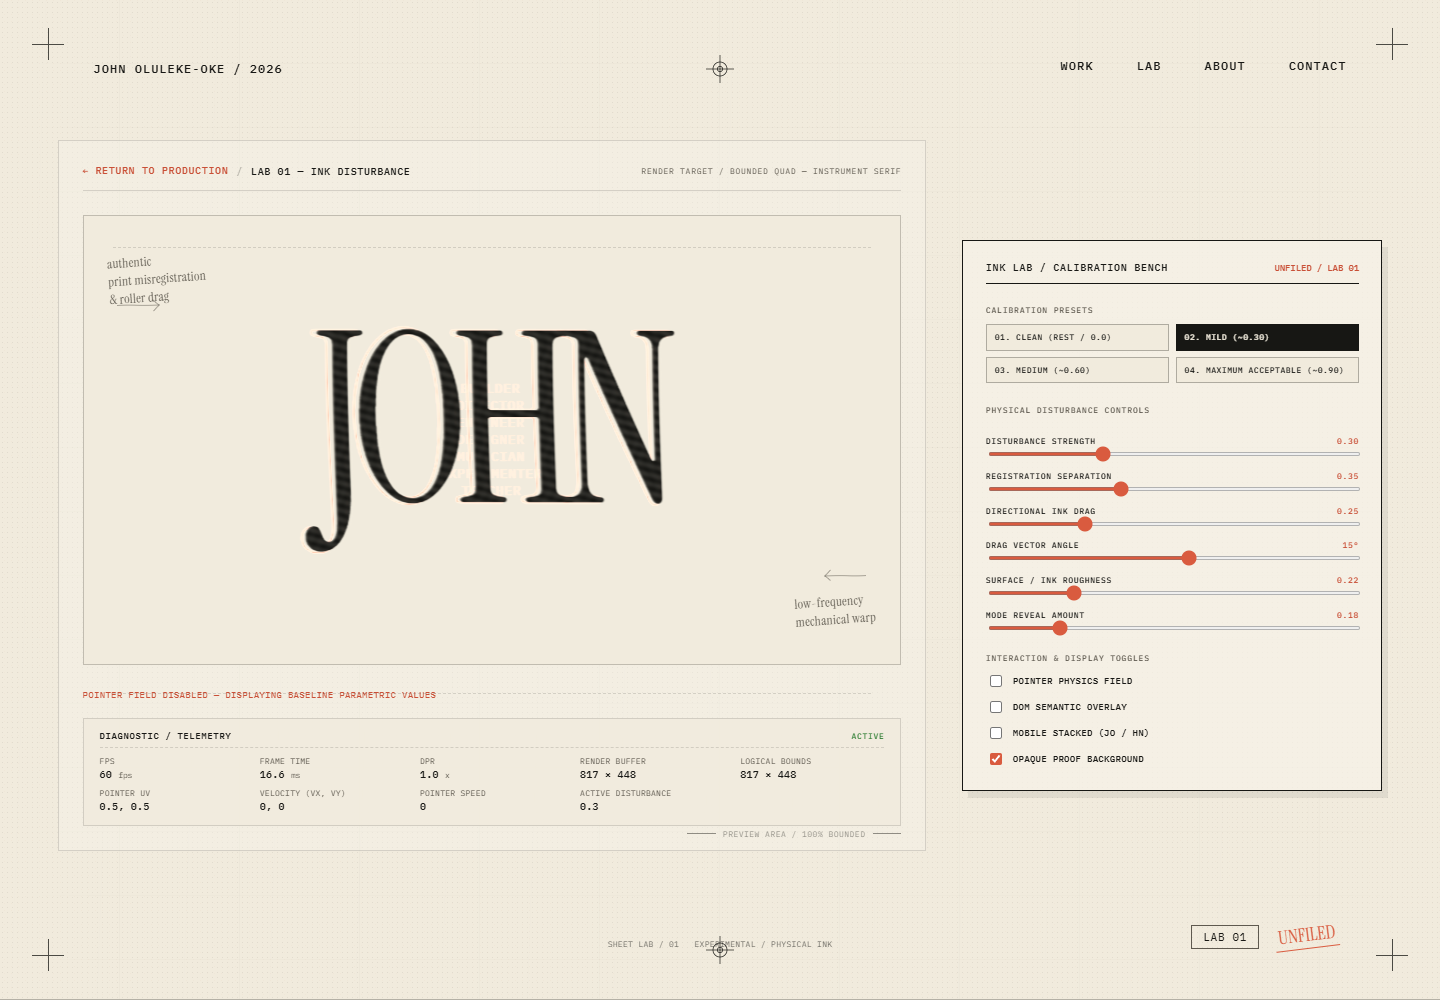
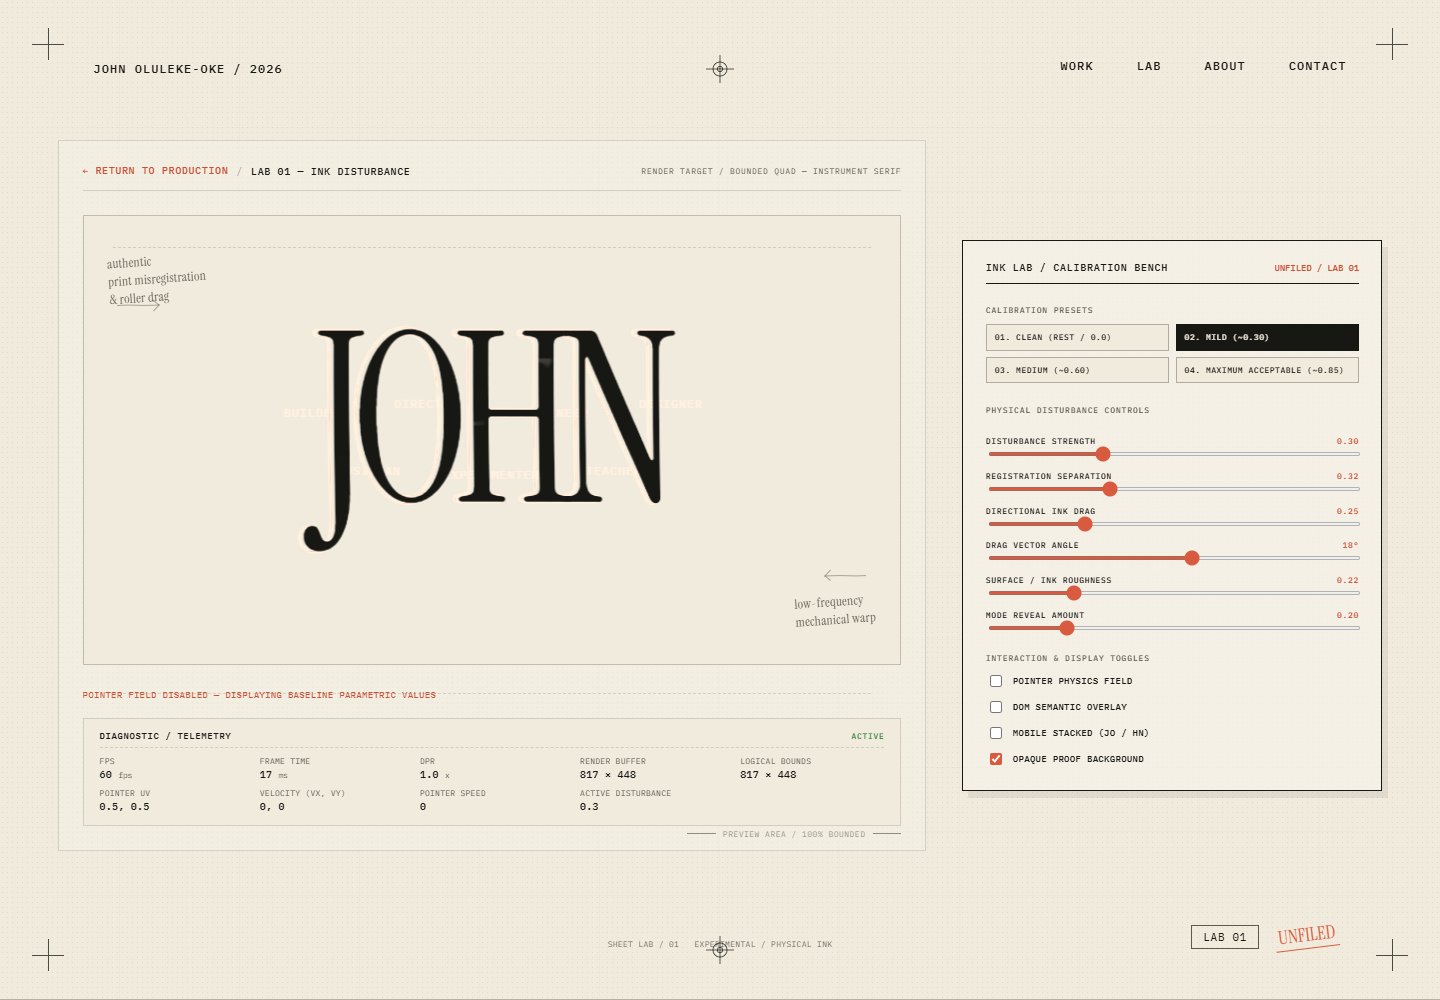
feat(ink-lab): add adjustable disturbance levels to ink distortion
Introduce multi-tier disturbance controls (clean, mild, medium, maximum)
wired through InkLabControls and applied via the inkDistortionShader,
giving the ink simulation a configurable turbulence spectrum.

- Add disturbance level parameter to InkLabControls and thread it through InkCanvas
- Update inkDistortionShader to scale displacement by the selected level
- Refresh milestone-02b capture script and regenerate screenshots to
  reflect the four calibrated disturbance states

diff --git a/Johns Website/src/shaders/inkDistortionShader.ts b/Johns Website/src/shaders/inkDistortionShader.ts
@@ -37,15 +37,49 @@ uniform float u_pointerActive;
 // Render Mode (0 = transparent overlay for DOM, 1 = opaque proof paper)
 uniform int u_renderMode;
 
-// Smooth harmonic mechanical plate distortion (press pressure / roller elasticity)
+// Non-periodic hash and noise helpers (avoids trigonometric precision artifacts)
+float hash11(float p) {
+  p = fract(p * 0.1031);
+  p *= p + 33.33;
+  p *= p + p;
+  return fract(p);
+}
+
+float hash12(vec2 p) {
+  vec3 p3 = fract(vec3(p.xyx) * 0.1031);
+  p3 += dot(p3, p3.yzx + 33.33);
+  return fract((p3.x + p3.y) * p3.z);
+}
+
+// 1D smooth value noise along perpendicular squeegee axis
+float noise1D(float x) {
+  float i = floor(x);
+  float f = fract(x);
+  float u = f * f * (3.0 - 2.0 * f);
+  return mix(hash11(i), hash11(i + 1.0), u);
+}
+
+// 2D smooth value noise for organic mechanical tooth and fiber
+float noise2D(vec2 p) {
+  vec2 i = floor(p);
+  vec2 f = fract(p);
+  vec2 u = f * f * (3.0 - 2.0 * f);
+  float a = hash12(i);
+  float b = hash12(i + vec2(1.0, 0.0));
+  float c = hash12(i + vec2(0.0, 1.0));
+  float d = hash12(i + vec2(1.0, 1.0));
+  return mix(mix(a, b, u.x), mix(c, d, u.x), u.y);
+}
+
+// Smooth low-frequency plate tension displacement (no liquid warping)
 vec2 getPlateDisplacement(vec2 uv, float strength) {
   if (strength <= 0.001) return vec2(0.0);
   
-  float t = u_time * 0.15;
-  float wave1 = sin(uv.y * 4.2 + t) * 0.65 + cos(uv.x * 3.1 - t * 0.8) * 0.35;
-  float wave2 = sin((uv.x * 2.0 + uv.y * 3.5) + t * 0.5) * 0.5 + cos(uv.y * 8.0 - t) * 0.15;
+  float t = u_time * 0.12;
+  float wave1 = sin(uv.y * 3.8 + t) * 0.6 + cos(uv.x * 2.6 - t * 0.7) * 0.4;
+  float wave2 = sin((uv.x * 1.8 + uv.y * 2.8) + t * 0.4) * 0.5;
   
-  return vec2(wave1 * 0.026, wave2 * 0.013) * strength;
+  return vec2(wave1 * 0.016, wave2 * 0.008) * strength;
 }
 
 void main() {
@@ -58,99 +92,150 @@ void main() {
   // 1. Local Pointer Disturbance Field
   vec2 ptrDelta = (v_uv - u_pointer) * vec2(u_aspect, 1.0);
   float ptrDist = length(ptrDelta);
-  float ptrRadius = 0.36;
+  float ptrRadius = 0.35;
   float ptrAngle = atan(ptrDelta.y, ptrDelta.x);
-  float ptrIrregularity = 1.0 + 0.22 * sin(ptrAngle * 3.0 + u_time * 0.5);
+  float ptrIrregularity = 1.0 + 0.18 * sin(ptrAngle * 3.0 + u_time * 0.4);
   float ptrInfluence = smoothstep(ptrRadius * ptrIrregularity, 0.0, ptrDist) * u_pointerActive;
   
   // Pointer directional ink pull
-  vec2 ptrVelocityDrag = -u_velocity * ptrInfluence * (0.015 + u_speed * 0.045);
+  vec2 ptrVelocityDrag = -u_velocity * ptrInfluence * (0.012 + u_speed * 0.038);
   
-  // 2. Low-Frequency Plate Warp
-  float effectiveDisturbance = clamp(u_disturbance + ptrInfluence * 0.28, 0.0, 1.0);
+  // Effective Disturbance
+  float effectiveDisturbance = clamp(u_disturbance + ptrInfluence * 0.25, 0.0, 1.0);
+  
+  // 2. Low-Frequency Mechanical Plate Warp
   vec2 plateWarp = getPlateDisplacement(v_uv, effectiveDisturbance);
-  vec2 baseUV = v_uv + plateWarp + ptrVelocityDrag;
+  vec2 baseUV = clamp(v_uv + plateWarp + ptrVelocityDrag, 0.0, 1.0);
   
-  // 3. Directional Ink Drag along Print/Roller Axis
+  // 3. Directional Axis Setup
   float angleRad = u_dragAngle * 3.14159265359 / 180.0;
   vec2 dragDir = vec2(cos(angleRad), sin(angleRad));
   vec2 perpDir = vec2(-dragDir.y, dragDir.x);
   
-  float dragLength = (u_drag * effectiveDisturbance * 0.055) + (ptrInfluence * (0.012 + u_speed * 0.048));
+  // Coordinate along perpendicular axis for roller non-uniformity
+  float perpCoord = dot(v_uv * vec2(u_aspect, 1.0), perpDir);
   
-  // Micro-striations along the physical squeegee/roller path (only when dragging/disturbed)
-  float striationActivity = clamp((u_drag * 0.7 + 0.3) * effectiveDisturbance + ptrInfluence * u_speed, 0.0, 1.0);
-  float rawStriation = sin(dot(v_uv * vec2(u_aspect, 1.0), perpDir) * 320.0) * 0.16 + 0.84;
-  float striation = mix(1.0, rawStriation, striationActivity);
+  // Multi-scale roller noise (breaks periodic banding completely)
+  float rollerNoiseCoarse = noise1D(perpCoord * 32.0);
+  float rollerNoiseMed = noise1D(perpCoord * 85.0 + 1.7);
+  float rollerNoiseFine = noise1D(perpCoord * 190.0 + 3.4);
+  float localRollerVariation = rollerNoiseCoarse * 0.5 + rollerNoiseMed * 0.35 + rollerNoiseFine * 0.15;
   
-  float accumulatedInk = 0.0;
-  float totalWeight = 0.0;
-  const int SAMPLES = 14;
+  // 4. Primary Black Impression Core & Edge-Biased Roughness
+  float rawCoreSample = texture(u_tex, baseUV).r;
   
-  for (int i = 0; i < SAMPLES; i++) {
-    float frac = float(i) / float(SAMPLES - 1);
-    float weight = exp(-frac * 2.8);
-    vec2 sampleUV = baseUV - dragDir * (frac * dragLength);
-    sampleUV = clamp(sampleUV, 0.0, 1.0);
+  // Detect glyph contour boundary (peaks at ~0.5, 0 deep inside or far outside)
+  float edgeProximity = smoothstep(0.04, 0.32, rawCoreSample) * smoothstep(0.96, 0.68, rawCoreSample);
+  
+  // Edge-biased paper tooth & fiber erosion
+  float edgeFiberNoise = noise2D(v_uv * vec2(u_aspect * 160.0, 160.0));
+  float boundaryErosion = (edgeFiberNoise - 0.45) * u_roughness * effectiveDisturbance * 0.48;
+  
+  // Dark pooling / ink squeeze at contour (physical ink squashed to the edges of the plate)
+  float inkPooling = edgeProximity * 0.12 * u_roughness;
+  
+  // Preserved Core: Inside remains solid opaque black (~70% intact mass), only edges erode
+  float intactCore = clamp(rawCoreSample - edgeProximity * boundaryErosion + inkPooling, 0.0, 1.0);
+  
+  // Small localized mechanical voids (rough paper tooth pulling away tiny patches under high disturbance)
+  float voidNoise = noise2D(v_uv * vec2(u_aspect * 28.0, 28.0));
+  float voidThreshold = 1.0 - 0.22 * effectiveDisturbance;
+  float microVoid = smoothstep(voidThreshold, voidThreshold + 0.08, voidNoise) * u_roughness * 0.45;
+  intactCore = clamp(intactCore - microVoid * rawCoreSample, 0.0, 1.0);
+  
+  // 5. Directional but Locally Inconsistent Drag (Pulled-away material ~20%)
+  // Drag length varies across stems and serifs based on local roller variation
+  float localDragFactor = mix(0.35, 1.25, localRollerVariation);
+  float maxDragDist = (u_drag * effectiveDisturbance * 0.062 * localDragFactor) + (ptrInfluence * (0.01 + u_speed * 0.042));
+  
+  float trailAccum = 0.0;
+  float trailWeight = 0.0;
+  const int SAMPLES = 12;
+  
+  // Sample along drag vector with non-periodic jitter to eliminate step lines
+  for (int i = 1; i <= SAMPLES; i++) {
+    float frac = float(i) / float(SAMPLES);
+    float jitter = (hash11(float(i) * 23.7 + perpCoord * 43.0) - 0.5) * 0.07;
+    float t = clamp(frac + jitter, 0.0, 1.0);
     
-    float sampleDensity = texture(u_tex, sampleUV).r;
-    accumulatedInk += sampleDensity * weight;
-    totalWeight += weight;
+    // Natural exponential decay of dragged ink
+    float w = exp(-t * 3.2);
+    vec2 sampleUV = clamp(baseUV - dragDir * (t * maxDragDist), 0.0, 1.0);
+    float s = texture(u_tex, sampleUV).r;
+    
+    // Fine natural micro-fiber variation in dragged trail
+    float fiberGrain = mix(0.72, 1.0, noise1D(dot(sampleUV * vec2(u_aspect, 1.0), perpDir) * 140.0));
+    trailAccum += s * w * fiberGrain;
+    trailWeight += w;
   }
   
-  float draggedInkDensity = (accumulatedInk / totalWeight) * striation;
+  float trailDensity = (trailAccum / max(0.001, trailWeight));
+  // Smeared material pulled off glyphs onto paper (subordinate to core)
+  float draggedMaterial = trailDensity * (0.32 + 0.42 * effectiveDisturbance);
   
-  // 4. Paper Grain & Surface Roughness
-  float grainCoord = v_uv.x * 260.0 * u_aspect + sin(v_uv.y * 60.0) * 2.5;
-  float paperTooth = sin(grainCoord) * 0.5 + 0.5;
-  float fiberModulation = mix(1.0, 0.82 + 0.18 * paperTooth, u_roughness * effectiveDisturbance);
+  // Final Primary Ink: Core remains prominent, trails extend outward
+  float finalPrimaryInk = max(intactCore, draggedMaterial);
   
-  // Edge ink starvation on dragged tails
-  float inkStarvation = mix(1.0, smoothstep(0.04, 0.50, draggedInkDensity), u_roughness * effectiveDisturbance * 0.6);
-  float finalPrimaryInk = clamp(draggedInkDensity * fiberModulation * inkStarvation, 0.0, 1.0);
+  // 6. Mechanically Imperfect Proof-Red Registration Layer
+  // Spatial variation across platen width: skew angle and tension drift
+  float regStrength = u_registration * effectiveDisturbance + ptrInfluence * (0.22 + u_speed * 0.32);
   
-  // 5. Proof-Red Plate Registration Separation
-  float regSep = u_registration * effectiveDisturbance + ptrInfluence * (0.25 + u_speed * 0.35);
-  vec2 redOffsetVector = dragDir * (0.024 * regSep) + vec2(0.005, -0.002) * regSep + (u_velocity * ptrInfluence * 0.02);
+  vec2 centeredUV = v_uv - vec2(0.5);
+  // Differential plate skew across width & height
+  float plateSkew = (centeredUV.x * 0.45 - centeredUV.y * 0.25) * 0.012 * regStrength;
+  vec2 rotOffset = vec2(-centeredUV.y, centeredUV.x) * plateSkew;
   
-  vec2 redUV = clamp(v_uv + plateWarp * 1.35 + redOffsetVector, 0.0, 1.0);
+  // Platen tension accumulation across print direction
+  float tensionDrift = (v_uv.x * 0.6 + 0.4) * regStrength;
+  vec2 redOffsetVector = dragDir * (0.003 + 0.022 * tensionDrift) + 
+                         vec2(0.005 * (1.0 - v_uv.y * 0.4), -0.003 * v_uv.x) * regStrength + 
+                         rotOffset + (u_velocity * ptrInfluence * 0.018);
+  
+  vec2 redUV = clamp(v_uv + plateWarp * 1.28 + redOffsetVector, 0.0, 1.0);
   float proofRedSample = texture(u_tex, redUV).g;
-  float finalProofRed = clamp(proofRedSample * (0.65 + 0.35 * effectiveDisturbance), 0.0, 1.0);
   
-  // 6. Duplicate Ghost Impression (Mechanical plate bounce / double strike)
-  vec2 ghostOffset = -dragDir * (0.008 * effectiveDisturbance) + vec2(-0.004, 0.002) * effectiveDisturbance;
+  // Proof-red outline also exhibits subtle mechanical ink transfer variation
+  float redTransferNoise = mix(0.82, 1.0, noise1D(perpCoord * 70.0));
+  float finalProofRed = clamp(proofRedSample * (0.65 + 0.35 * effectiveDisturbance) * redTransferNoise, 0.0, 1.0);
+  
+  // 7. Duplicate Ghost Impression (Mechanical plate bounce / double strike)
+  vec2 ghostOffset = -dragDir * (0.007 * effectiveDisturbance) + vec2(-0.003, 0.0015) * effectiveDisturbance;
   vec2 ghostUV = clamp(baseUV + ghostOffset, 0.0, 1.0);
   float ghostInkSample = texture(u_tex, ghostUV).r;
-  float ghostDensity = ghostInkSample * (0.16 * effectiveDisturbance + 0.22 * ptrInfluence);
+  float ghostDensity = ghostInkSample * (0.14 * effectiveDisturbance + 0.20 * ptrInfluence);
   
-  // 7. Hidden Mode Reveal Layer
-  float revealStrength = clamp(u_reveal + ptrInfluence * 0.45, 0.0, 1.0);
-  vec2 modeUV = clamp(v_uv + plateWarp * 0.35, 0.0, 1.0);
+  // 8. Distributed Under-Print Mode Reveal
+  // Under-print text is exposed where primary ink is displaced, thinned, or in mechanical gaps
+  float rawReveal = u_reveal * (0.4 + 0.6 * effectiveDisturbance) + ptrInfluence * 0.35;
+  vec2 modeUV = clamp(v_uv + plateWarp * 0.25, 0.0, 1.0);
   float modeSample = texture(u_tex, modeUV).b;
-  float finalModeReveal = clamp(modeSample * revealStrength * 1.4, 0.0, 1.0);
   
-  // 8. Layer Composition
+  // Reveal appears through gaps (~10% exposure) and trailing smear voids
+  float voidExposure = clamp(1.0 - finalPrimaryInk * 0.88, 0.0, 1.0);
+  float finalModeReveal = clamp(modeSample * rawReveal * (0.55 + 0.45 * voidExposure) * 1.5, 0.0, 1.0);
+  
+  // 9. Layer Composition
   vec4 result = (u_renderMode == 1) ? colorPaper : vec4(0.0);
   
-  // Underlying revealed modes
+  // A. Under-print revealed modes
   if (finalModeReveal > 0.002) {
     vec4 modeColor = vec4(colorModeText.rgb, finalModeReveal);
     result = mix(result, modeColor, modeColor.a);
   }
   
-  // Proof-red registration outline
+  // B. Mechanically imperfect proof-red registration outline
   if (finalProofRed > 0.002) {
-    vec4 redColor = vec4(colorProofRed.rgb, finalProofRed * 0.85);
+    vec4 redColor = vec4(colorProofRed.rgb, finalProofRed * 0.88);
     result = mix(result, redColor, redColor.a);
   }
   
-  // Secondary ghost impression
+  // C. Duplicate ghost strike
   if (ghostDensity > 0.002) {
     vec4 ghostColor = vec4(colorInk.rgb, ghostDensity);
     result = mix(result, ghostColor, ghostColor.a);
   }
   
-  // Primary black ink
+  // D. Primary black impression (solid core + pulled material)
   if (finalPrimaryInk > 0.002) {
     vec4 inkColor = vec4(colorInk.rgb, finalPrimaryInk);
     result = mix(result, inkColor, inkColor.a);

diff --git a/Johns Website/src/components/ink-lab/InkCanvas.tsx b/Johns Website/src/components/ink-lab/InkCanvas.tsx
@@ -38,14 +38,25 @@ interface InkCanvasProps {
   isStackedLayout?: boolean;
 }
 
-const MODES = [
-  "BUILDER",
-  "DIRECTOR",
-  "ENGINEER",
-  "DESIGNER",
-  "MUSICIAN",
-  "EXPERIMENTER",
-  "TEACHER",
+// Distributed under-print layout across the span of JOHN
+const SINGLE_LINE_MODES = [
+  { text: "BUILDER", x: 0.28, y: 0.44 },
+  { text: "DIRECTOR", x: 0.42, y: 0.42 },
+  { text: "ENGINEER", x: 0.58, y: 0.44 },
+  { text: "DESIGNER", x: 0.72, y: 0.42 },
+  { text: "MUSICIAN", x: 0.35, y: 0.57 },
+  { text: "EXPERIMENTER", x: 0.50, y: 0.58 },
+  { text: "TEACHER", x: 0.65, y: 0.57 },
+];
+
+const STACKED_MODES = [
+  { text: "BUILDER", x: 0.34, y: 0.26 },
+  { text: "DIRECTOR", x: 0.48, y: 0.23 },
+  { text: "MUSICIAN", x: 0.48, y: 0.32 },
+  { text: "ENGINEER", x: 0.54, y: 0.66 },
+  { text: "DESIGNER", x: 0.54, y: 0.74 },
+  { text: "EXPERIMENTER", x: 0.68, y: 0.66 },
+  { text: "TEACHER", x: 0.68, y: 0.74 },
 ];
 
 function createShader(gl: WebGL2RenderingContext, type: number, source: string): WebGLShader | null {
@@ -113,7 +124,7 @@ export function InkCanvas({
         : Math.min(width * 0.29, height * 0.85);
 
       const serifFont = `400 ${baseFontSize}px "Instrument Serif", Georgia, serif`;
-      const monoFont = `500 ${Math.max(13, baseFontSize * 0.048)}px "IBM Plex Mono", monospace`;
+      const monoFont = `500 ${Math.max(12, Math.round(baseFontSize * 0.052))}px "IBM Plex Mono", monospace`;
 
       ctx.save();
       // Apply slight scaleX compression matching production design
@@ -150,19 +161,16 @@ export function InkCanvas({
 
       ctx.restore();
 
-      // 3. Blue Channel = Hidden Operating Modes
+      // 3. Blue Channel = Distributed Under-Print Modes
       ctx.fillStyle = "rgb(0, 0, 255)";
       ctx.font = monoFont;
       ctx.textAlign = "center";
       ctx.textBaseline = "middle";
-      ctx.letterSpacing = "0.055em";
-      const modeLineHeight = Math.max(17, baseFontSize * 0.065);
-      const totalModesHeight = (MODES.length - 1) * modeLineHeight;
-      const modeStartY = height * 0.5 - totalModesHeight * 0.5;
+      ctx.letterSpacing = "0.065em";
 
-      MODES.forEach((mode, idx) => {
-        const y = modeStartY + idx * modeLineHeight;
-        ctx.fillText(mode, width * 0.5, y);
+      const modesList = stacked ? STACKED_MODES : SINGLE_LINE_MODES;
+      modesList.forEach((mode) => {
+        ctx.fillText(mode.text, width * mode.x, height * mode.y);
       });
 
       ctx.globalCompositeOperation = "source-over";

diff --git a/Johns Website/src/components/ink-lab/InkLabControls.tsx b/Johns Website/src/components/ink-lab/InkLabControls.tsx
@@ -18,8 +18,8 @@ export const PRESETS: Record<string, { label: string; params: Partial<InkDistort
       disturbance: 0.0,
       registration: 0.0,
       drag: 0.0,
-      dragAngle: 0,
-      roughness: 0.05,
+      dragAngle: 25,
+      roughness: 0.0,
       reveal: 0.0,
       pointerActive: true,
     },
@@ -28,11 +28,11 @@ export const PRESETS: Record<string, { label: string; params: Partial<InkDistort
     label: "02. MILD (~0.30)",
     params: {
       disturbance: 0.30,
-      registration: 0.35,
+      registration: 0.32,
       drag: 0.25,
-      dragAngle: 15,
+      dragAngle: 18,
       roughness: 0.22,
-      reveal: 0.18,
+      reveal: 0.20,
       pointerActive: true,
     },
   },
@@ -40,23 +40,23 @@ export const PRESETS: Record<string, { label: string; params: Partial<InkDistort
     label: "03. MEDIUM (~0.60)",
     params: {
       disturbance: 0.60,
-      registration: 0.65,
-      drag: 0.55,
-      dragAngle: 25,
-      roughness: 0.48,
-      reveal: 0.55,
+      registration: 0.58,
+      drag: 0.48,
+      dragAngle: 24,
+      roughness: 0.42,
+      reveal: 0.48,
       pointerActive: true,
     },
   },
   maximum: {
-    label: "04. MAXIMUM ACCEPTABLE (~0.90)",
+    label: "04. MAXIMUM ACCEPTABLE (~0.85)",
     params: {
-      disturbance: 0.90,
-      registration: 0.88,
-      drag: 0.82,
-      dragAngle: 35,
-      roughness: 0.70,
-      reveal: 0.85,
+      disturbance: 0.85,
+      registration: 0.78,
+      drag: 0.68,
+      dragAngle: 28,
+      roughness: 0.58,
+      reveal: 0.72,
       pointerActive: true,
     },
   },
